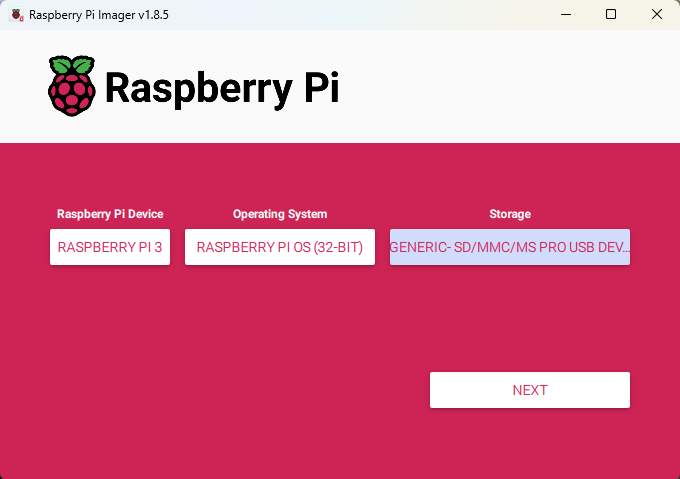
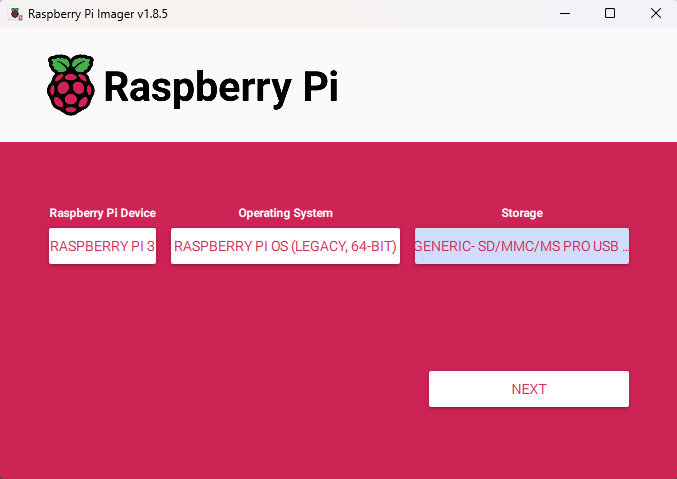
updated os version choice

diff --git a/setting-up-a-headless-raspberry/installing-raspberry-pi-os/README.md b/setting-up-a-headless-raspberry/installing-raspberry-pi-os/README.md
@@ -62,10 +62,10 @@ To choose the operating system, click the `CHOOSE OS` button. Figure 4 shows the
   <em>Figure 4: List of operating systems available on the Raspberry Pi imager platform.</em>
 </p>
 
-Click the OS edition you intend to install for your Raspberry Pi. Let us choose Raspberry Pi OS (32-bit) for this tutorial. After selecting the Raspberry Pi OS, the Raspberry Pi Imager will return to the home page and display the selected OS as shown in Figure 5.
+Click the OS edition you intend to install for your Raspberry Pi. Let us choose Raspberry Pi OS (Legacy, 32-bit) for this tutorial. After selecting the Raspberry Pi OS, the Raspberry Pi Imager will return to the home page and display the selected OS as shown in Figure 5.
 
 <p align="center">
-  <img width="auto" height="auto" src="/setting-up-a-headless-raspberry/installing-raspberry-pi-os/img/rpi-imager-32-bit-os.png">
+  <img width="auto" height="auto" src="/setting-up-a-headless-raspberry/installing-raspberry-pi-os/img/rpi-imager-64-bit-legacy-os.png">
   
 </p>
 
